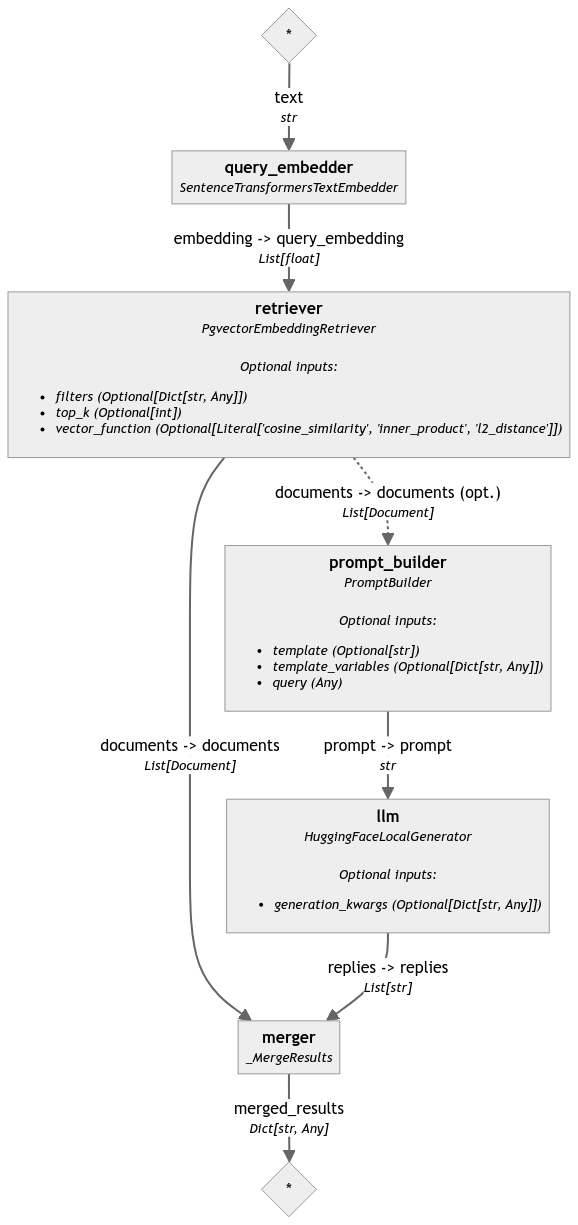
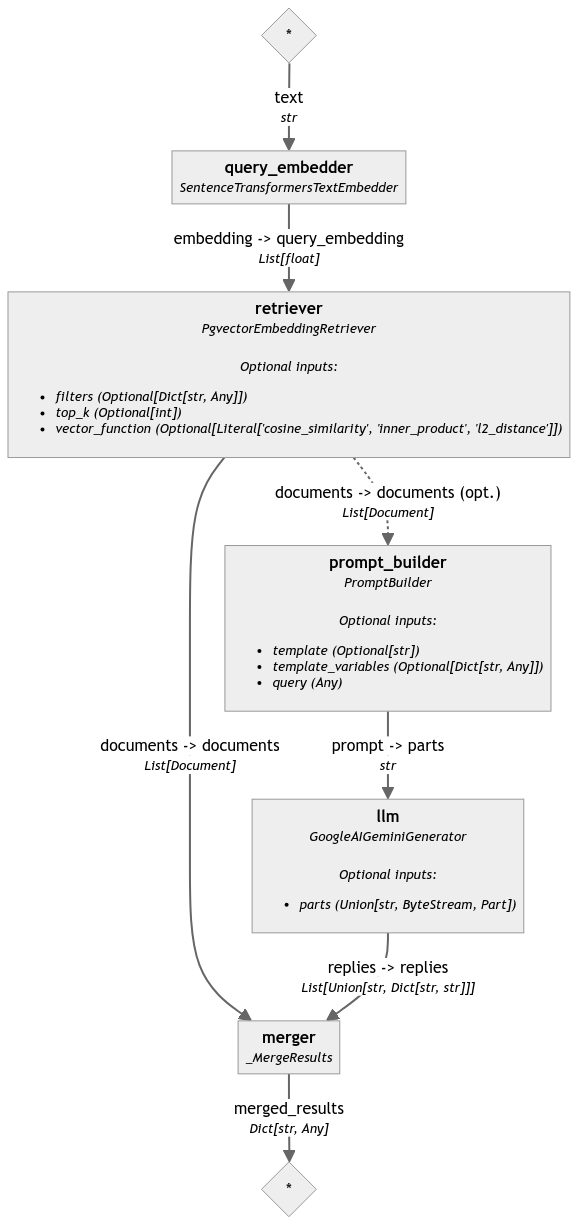
Updates to do Google Gemini

diff --git a/haystack_pgvector.py b/haystack_pgvector.py
@@ -14,13 +14,14 @@ from haystack.components.converters import HTMLToDocument
 from haystack.components.writers import DocumentWriter
 from haystack.components.builders import PromptBuilder
 from haystack.components.generators import HuggingFaceLocalGenerator
+from haystack_integrations.components.generators.google_ai import GoogleAIGeminiGenerator
 from haystack_integrations.components.retrievers.pgvector import PgvectorEmbeddingRetriever
 from haystack_integrations.document_stores.pgvector import PgvectorDocumentStore
 from haystack.utils import ComponentDevice, Device
 from haystack.document_stores.types import DuplicatePolicy
 from haystack.utils.auth import Secret
 # Other imports
-from typing import List, Optional, Dict, Any, Tuple
+from typing import List, Optional, Dict, Any, Tuple, Union
 from pathlib import Path
 
 
@@ -57,7 +58,7 @@ class HaystackPgvector:
                  table_name: str = 'haystack_pgvector_docs',
                  recreate_table: bool = False,
                  book_file_path: Optional[str] = None,
-                 hf_password: Optional[str] = None,
+                 llm_password: Optional[str] = None,
                  postgres_user_name: str = 'postgres',
                  postgres_password: str = None,
                  postgres_host: str = 'localhost',
@@ -76,7 +77,7 @@ class HaystackPgvector:
             table_name (str): Name of the table in the Pgvector database.
             recreate_table (bool): Whether to recreate the database table.
             book_file_path (Optional[str]): Path to the EPUB file to be processed.
-            hf_password (Optional[str]): Password for Hugging Face authentication.
+            llm_password (Optional[str]): Password for Hugging Face authentication.
             postgres_user_name (str): Username for Postgres database.
             postgres_password (str): Password for Postgres database.
             postgres_host (str): Host address for Postgres database.
@@ -98,8 +99,8 @@ class HaystackPgvector:
         self._temperature: float = temperature
 
         # Passwords and connection strings
-        if hf_password is not None:
-            hf_hub.login(hf_password, add_to_git_credential=False)
+        if llm_password is not None and llm_model_name != "google-gemini":
+            hf_hub.login(llm_password, add_to_git_credential=False)
         if (postgres_password is None) or (postgres_password == ""):
             postgres_password = HaystackPgvector.get_secret(r'D:\Documents\Secrets\postgres_password.txt')
         # PG_CONN_STR="postgresql://USER:PASSWORD@HOST:PORT/DB_NAME
@@ -128,16 +129,23 @@ class HaystackPgvector:
         self._component_device: Device = Device.gpu() if self._has_cuda else Device.cpu()
         print("Warming up Large Language Model")
         self._llm_model_name: str = llm_model_name
-        self._llm_generator: HuggingFaceLocalGenerator = HuggingFaceLocalGenerator(
-            model=self._llm_model_name,
-            task="text-generation",
-            device=ComponentDevice(self._component_device),
-            generation_kwargs={
-                "max_new_tokens": self._max_new_tokens,
-                "temperature": self._temperature,
-                "do_sample": True,
-            })
-        self._llm_generator.warm_up()
+
+        if self._llm_model_name == "google-gemini":
+            self._llm_generator: GoogleAIGeminiGenerator = GoogleAIGeminiGenerator(
+                model="gemini-pro",
+                api_key=Secret.from_token(llm_password)
+            )
+        else:
+            self._llm_generator: HuggingFaceLocalGenerator = HuggingFaceLocalGenerator(
+                model=self._llm_model_name,
+                task="text-generation",
+                device=ComponentDevice(self._component_device),
+                generation_kwargs={
+                    "max_new_tokens": self._max_new_tokens,
+                    "temperature": self._temperature,
+                    "do_sample": True,
+                })
+            self._llm_generator.warm_up()
 
         # Default prompt template
         # noinspection SpellCheckingInspection
@@ -170,6 +178,8 @@ class HaystackPgvector:
         Returns:
             Optional[int]: The maximum context length of the language model, if available.
         """
+        if self._llm_model_name == "google-gemini":
+            return None
         return HaystackPgvector._get_context_length(self._llm_model_name)
 
     @property
@@ -180,6 +190,8 @@ class HaystackPgvector:
         Returns:
             Optional[int]: The embedding dimensions of the language model, if available.
         """
+        if self._llm_model_name == "google-gemini":
+            return None
         return HaystackPgvector._get_embedding_dimensions(self._llm_model_name)
 
     @property
@@ -285,7 +297,7 @@ class HaystackPgvector:
     @component
     class _MergeResults:
         @component.output_types(merged_results=Dict[str, Any])
-        def run(self, documents: List[Document], replies: List[str]) -> Dict[str, Dict[str, Any]]:
+        def run(self, documents: List[Document], replies: List[Union[str, Dict[str, str]]]) -> Dict[str, Dict[str, Any]]:
             return {
                 "merged_results": {
                     "documents": documents,
@@ -405,7 +417,10 @@ class HaystackPgvector:
 
         rag_pipeline.connect("query_embedder.embedding", "retriever.query_embedding")
         rag_pipeline.connect("retriever.documents", "prompt_builder.documents")
-        rag_pipeline.connect("prompt_builder.prompt", "llm.prompt")
+        if self._llm_model_name == "google-gemini":
+            rag_pipeline.connect("prompt_builder", "llm")
+        else:
+            rag_pipeline.connect("prompt_builder.prompt", "llm.prompt")
 
         # Connect the retriever and llm to the merger
         rag_pipeline.connect("retriever.documents", "merger.documents")
@@ -415,13 +430,15 @@ class HaystackPgvector:
 
 
 def main() -> None:
-    secret: str = HaystackPgvector.get_secret(r'D:\Documents\Secrets\huggingface_secret.txt')
+    # secret: str = HaystackPgvector.get_secret(r'D:\Documents\Secrets\huggingface_secret.txt')
+    secret: str = HaystackPgvector.get_secret(r'D:\Documents\Secrets\gemini_secret.txt')
 
     epub_file_path: str = "Federalist Papers.epub"
     rag_processor: HaystackPgvector = HaystackPgvector(table_name="federalist_papers",
                                                        recreate_table=False,
                                                        book_file_path=epub_file_path,
-                                                       hf_password=secret)
+                                                       llm_model_name="google-gemini",
+                                                       llm_password=secret)
 
     # Draw images of the pipelines
     rag_processor.draw_pipelines()
